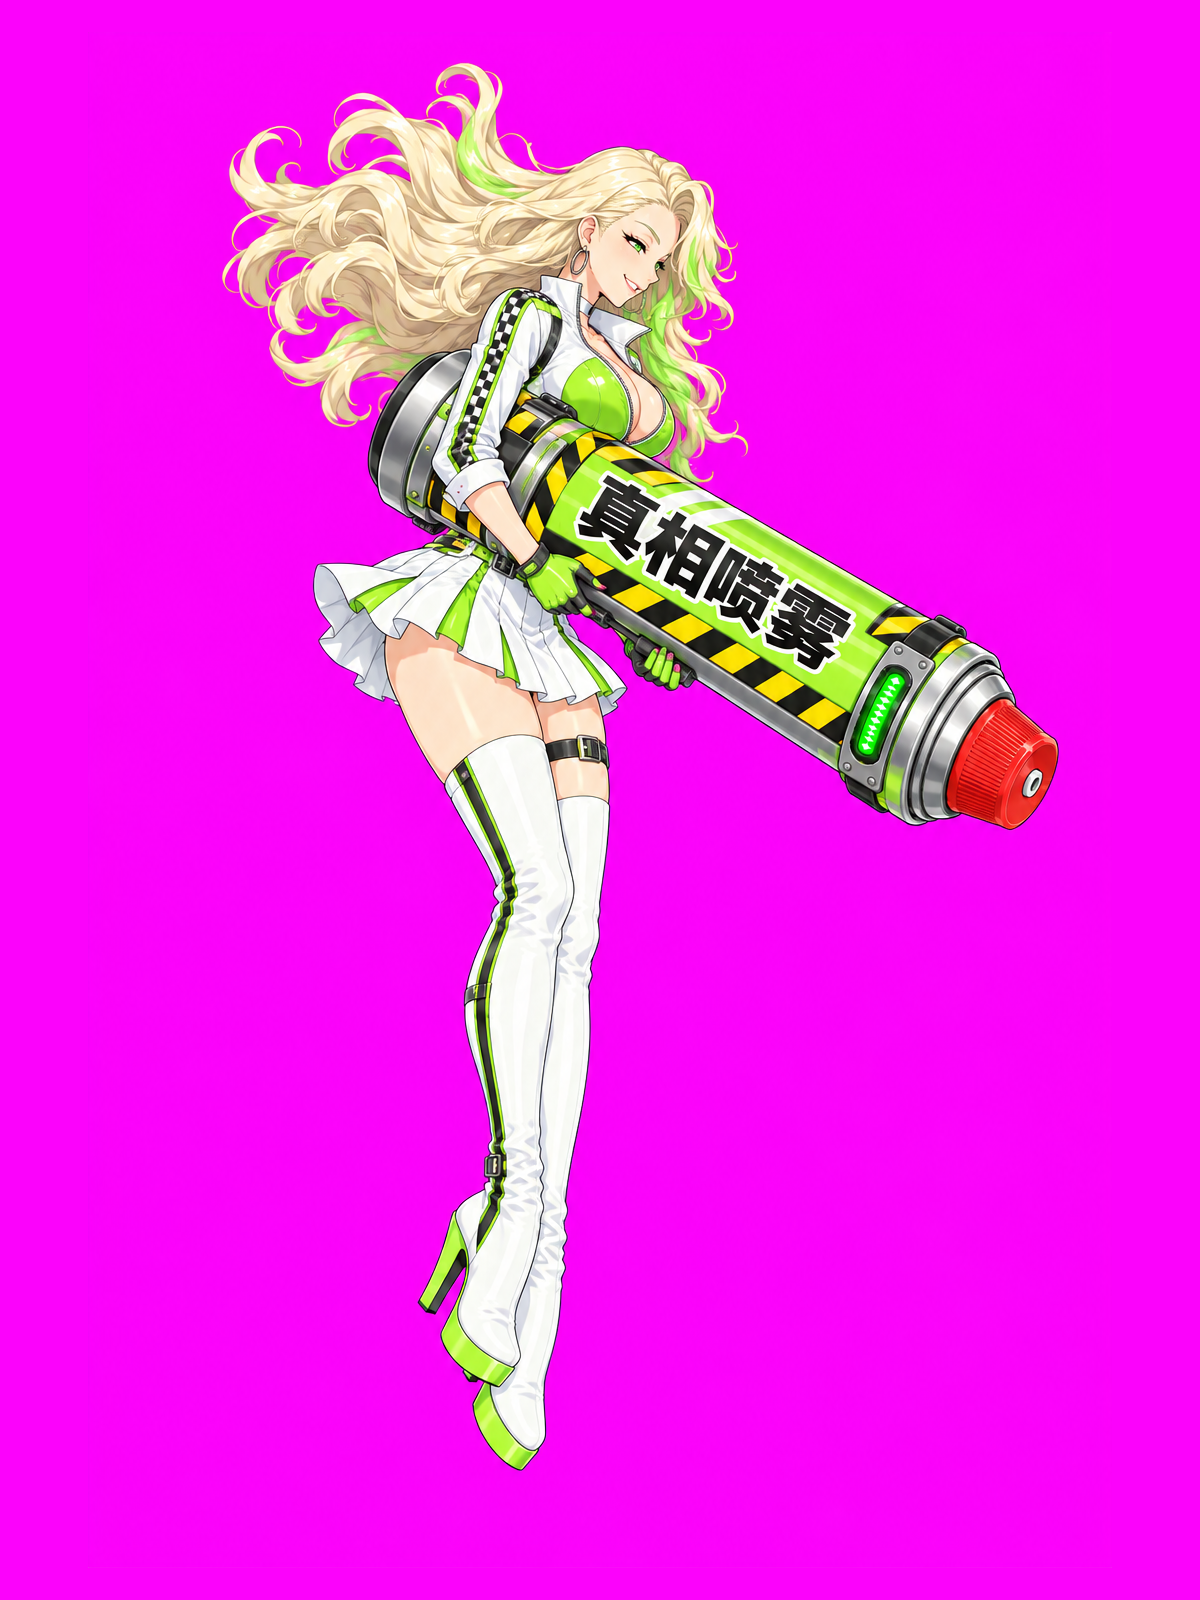
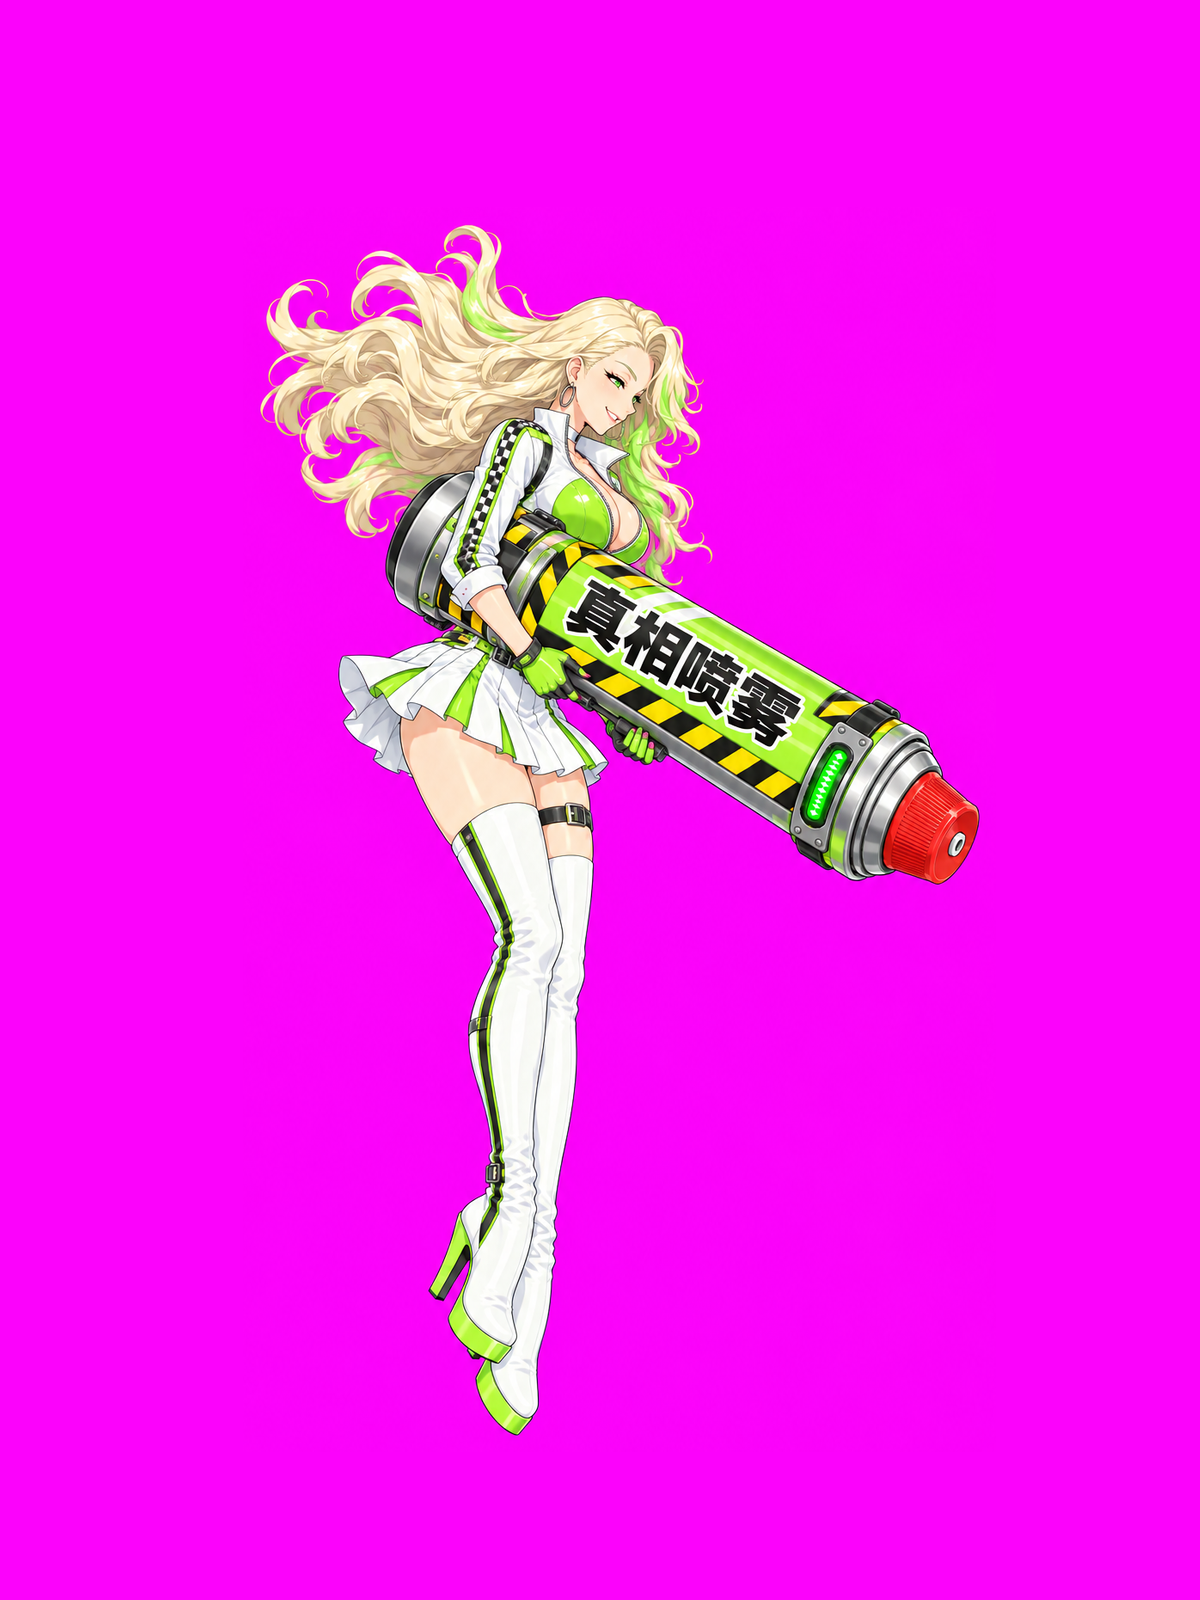
docs: 真相女神循环视频第二版提示词（A主循环+A2眨眼彩蛋，参考图头顶留边）

Changed region(s): [[0.185, 0.0312, 0.8942, 0.9375]]

diff --git a/chashouji/video/truth_loop/真相女神_循环视频_提示词.md b/chashouji/video/truth_loop/真相女神_循环视频_提示词.md
@@ -1,62 +1,71 @@
-# 真相女神 · 在场循环视频（即梦 Seedance）
+# 真相女神 · 在场循环视频（即梦 Seedance）· 第二版
 
-用途：档 4 出场视频放完后，她在场的 15 秒里不再是一张立绘整体晃，而是一段**原地循环播放的透明视频**（头发、裙摆、夹克、腿、表情都在动）。
-喷雾、光环、身后的放射金光、底下的真相云海仍由游戏画，视频里只要她本人。
+用途：档 4 出场视频放完后，她在场的 15 秒里不再是一张立绘整体晃，而是一段**原地循环播放的透明视频**。
+喷雾、喷口焰、星星气泡、光环、身后金光、底下的真相云海仍由游戏画，视频里只要她本人。
+
+第二版改了什么（2026-10-04）：
+- 参考图缩到 0.86 倍重新居中，头顶留 220 像素（第一版只有 62 像素，头发一飘就出画）。
+- B 版「挑逗表演」不用了，改成 **A 主循环 + A2 眨眼彩蛋**：两版首尾帧相同，游戏按 A2 → A → A 放（15 秒正好三圈，只眨一次眼）。
+- 后坐力改成**均匀的每秒一下**：我会量出视频里每一震的时刻，让游戏的喷雾一阵一阵地跟着它喷（视频一震、雾一冲）。
 
 ## 一、生成参数（两版通用）
 
-| 项 | 设置 | 为什么 |
-|---|---|---|
-| 模式 | **首尾帧** | 首帧、尾帧都传同一张图，视频才能首尾接成无缝循环 |
-| 首帧 | `真相女神_循环_首尾帧.png` | 游戏立绘的高清原图（v14/truth/src2.png）补成 3:4 品红底。循环每一圈的起止姿势 = 游戏立绘，能直接替换 |
-| 尾帧 | **同一张** `真相女神_循环_首尾帧.png` | 同上 |
-| 比例 | **3:4** | 跟参考图一致，不裁人 |
-| 分辨率 | 1080P（没有就 720P） | |
-| 时长 | **5 秒** | 循环一圈 5 秒，在场 15 秒正好三圈，不会一眼看出重复 |
-| 音频 / 音效 | **关** | 循环要放三圈，带声音会一遍遍重复 |
-| 运镜 | **固定机位**，不勾"随机运镜" | 镜头一动，人在游戏里就整个漂移 |
-| 数量 | 每版一次 4 条，挑一条 | |
+| 项 | 设置 |
+|---|---|
+| 模式 | **首尾帧**，首帧、尾帧都传同一张 `真相女神_循环_首尾帧.png` |
+| 比例 / 分辨率 / 时长 | 3:4 / 1080P（没有就 720P）/ **5 秒** |
+| 音频 | 关 |
+| 运镜 | 固定机位，不勾"随机运镜" |
+| 数量 | 每版 4 条，挑一条 |
 
-## 二、版本 A：战斗待机（一阵一阵地喷）
+## 二、版本 A：主循环（连射后坐力）
 
-> 日系赛璐璐动画风格，二次元高质量作画，粗描边，色彩鲜艳饱和。与首帧为同一角色、同一服装、同一道具，人物外观全程严格保持一致。纯品红色背景（#FF00FF），背景全程纯色不变，没有任何场景、光效、粒子、阴影。
-> 固定机位，镜头全程完全静止，不推不拉不摇。
-> 她悬浮在空中，双手稳稳抱住腰侧的巨型「真相喷雾」罐，罐口始终朝右下方瞄准，罐子的位置和角度基本不变。
-> 动作：整个人在原地轻轻上下浮动；罐子每隔不到一秒向后轻微一震（像在一阵阵喷射的后坐力），她的肩膀和上身随之微微一顿；罐身侧面的绿色电量灯一格一格流动闪烁。
-> 后坐力带起的气流把她的金色长发和青柠绿挑染持续向左后方吹起、大幅飘动；白色百褶短裙的裙摆和夹克下摆随风翻飞；两条腿悬在空中自然地轻轻前后摆动。
-> 表情：自信的坏笑，目光锁定右下方的目标，中途眨一次眼。
-> 罐口不喷出任何雾气、烟或光束。
-> 5 秒结束时，她的姿势、头发、裙摆完全回到首帧的样子，首尾无缝衔接，可以循环播放。
-> 全程只有她一个人，画面中不出现任何文字、字幕或水印（罐身上的"真相喷雾"除外），不变脸，不变装，人物不离开画面。
+```
+日系赛璐璐动画风格，二次元高质量作画，粗描边，色彩鲜艳饱和。与首帧为同一角色、同一服装、同一道具，人物外观全程严格保持一致。纯品红色背景（#FF00FF），背景全程纯色不变，没有任何场景、光效、粒子、阴影。
+固定机位，镜头全程完全静止，不推不拉不摇，人物大小和位置不变。
+她悬浮在空中，双手稳稳抱住腰侧的巨型「真相喷雾」罐，罐口始终朝右下方瞄准，罐子的位置和角度保持不变。
+动作：罐子节奏均匀地每秒向后一震，一共震五下，像大口径喷枪一下一下地连射产生的后坐力；每震一下，她的肩膀和上身随之往后上方一顿、再稳回来。两次震动之间，整个人在原地轻轻上下浮动。罐身侧面的绿色电量灯随着每一下震动闪亮一次。
+后坐力带起的强风把她的金色长发和青柠绿挑染持续向左后方吹起、大幅飘动；白色百褶短裙的裙摆和夹克下摆随风翻飞；两条腿悬在空中，随着每一下震动微微往后一甩。
+表情：自信的坏笑，眼睛始终盯着右下方的目标。
+罐口不喷出任何雾气、烟或光束。
+5 秒结束时，她的姿势、头发、裙摆完全回到首帧的样子，首尾无缝衔接，可以循环播放。
+全程只有她一个人，画面中不出现任何文字、字幕或水印（罐身上的"真相喷雾"除外），不变脸，不变装，人物不离开画面。
+```
 
-## 三、版本 B：挑逗表演（更有人味）
+## 三、版本 A2：眨眼彩蛋（只放一圈）
 
-> 日系赛璐璐动画风格，二次元高质量作画，粗描边，色彩鲜艳饱和。与首帧为同一角色、同一服装、同一道具，人物外观全程严格保持一致。纯品红色背景（#FF00FF），背景全程纯色不变，没有任何场景、光效、粒子、阴影。
-> 固定机位，镜头全程完全静止，不推不拉不摇。
-> 她悬浮在空中，双手抱住腰侧的巨型「真相喷雾」罐，罐口始终朝右下方，罐子的位置和角度基本不变。
-> 动作：她先慢慢转过头看向镜头，歪一下头，冲镜头俏皮地眨一下右眼、嘴角勾起得意的笑；然后甩一下头，长发在空中划出一道大弧线；两条修长的腿在空中交替轻轻踢动、像在水里悠闲地踩水，一只脚尖俏皮地勾起又放下；最后转回头，目光重新锁定右下方。
-> 金色长发和青柠绿挑染全程在风中持续飘动，白色百褶短裙和夹克下摆轻轻翻飞，罐身侧面的绿色电量灯流动闪烁。
-> 罐口不喷出任何雾气、烟或光束。
-> 5 秒结束时，她的姿势、头的朝向、头发、裙摆完全回到首帧的样子，首尾无缝衔接，可以循环播放。
-> 全程只有她一个人，画面中不出现任何文字、字幕或水印（罐身上的"真相喷雾"除外），不变脸，不变装，人物不离开画面。
+```
+日系赛璐璐动画风格，二次元高质量作画，粗描边，色彩鲜艳饱和。与首帧为同一角色、同一服装、同一道具，人物外观全程严格保持一致。纯品红色背景（#FF00FF），背景全程纯色不变，没有任何场景、光效、粒子、阴影。
+固定机位，镜头全程完全静止，不推不拉不摇，人物大小和位置不变。
+她悬浮在空中，双手稳稳抱住腰侧的巨型「真相喷雾」罐，罐口始终朝右下方瞄准，罐子的位置和角度保持不变。
+动作：罐子节奏均匀地每秒向后一震，一共震五下，像大口径喷枪一下一下地连射产生的后坐力；每震一下，她的肩膀和上身随之往后上方一顿、再稳回来。罐身侧面的绿色电量灯随着每一下震动闪亮一次。
+表情和头：第 1 秒眼睛盯着右下方的目标；第 2 秒她一边继续射击，一边把头转过来看向镜头，冲镜头俏皮地眨一下右眼，嘴角勾起得意的坏笑，像在说"看好了"；第 4 秒把头转回去，目光重新锁定右下方，直到结束。转头时只转头和脖子，手和罐子不动。
+后坐力带起的强风把她的金色长发和青柠绿挑染持续向左后方吹起、大幅飘动；白色百褶短裙的裙摆和夹克下摆随风翻飞；两条腿悬在空中，随着每一下震动微微往后一甩。
+罐口不喷出任何雾气、烟或光束。
+5 秒结束时，她的姿势、头的朝向、头发、裙摆完全回到首帧的样子，首尾无缝衔接，可以循环播放。
+全程只有她一个人，画面中不出现任何文字、字幕或水印（罐身上的"真相喷雾"除外），不变脸，不变装，人物不离开画面。
+```
 
-## 四、反向提示词（两版通用，界面有这一栏就填）
+## 四、反向提示词（两版通用）
 
-> 写实真人，3D 渲染，多余人物，多手指，手部畸形，脸部崩坏，换装，服装颜色变化，罐子消失，罐子换手，罐子大幅转动，罐子上的文字乱码，喷雾，烟雾，光效，粒子，背景场景，背景颜色变化，阴影，字幕，水印，logo，镜头移动，镜头缩放，画面抖动，人物出画，低清晰度，模糊
+```
+写实真人，3D 渲染，多余人物，多手指，手部畸形，脸部崩坏，换装，服装颜色变化，罐子消失，罐子换手，罐子转动，罐子上的文字乱码，喷雾，烟雾，水雾，气体，光效，粒子，背景场景，背景颜色变化，阴影，字幕，水印，logo，镜头移动，镜头缩放，画面抖动，人物出画，低清晰度，模糊
+```
 
-## 五、为什么这样写
+## 五、为什么不把喷雾做进视频
 
-- **罐子不动、罐口不喷**：游戏一直从罐口那个点往男主脸上喷雾。视频里罐子要是转了、自己也喷，游戏的雾就从半空冒出来，或者喷两份。
-- **纯品红底、不要光效**：她身后的放射金光、头顶光环、底下的云海都是游戏画的。视频里只要她一个人，抠像最干净。不用绿幕，绿幕会把她的青柠绿衣服一起抠穿。
-- **首尾同一张图、固定机位**：循环每一圈的头尾就是游戏立绘的姿势。出场视频放完后能直接无缝切进循环，人不跳、不漂。
-- **A 和 B 的区别**：A 读起来是"在干活"，后坐力、气流、头发裙摆一直在动，最贴战斗；B 读起来是"在放电"，看镜头、眨眼、甩头发、踢腿，最有人味。两版都出来以后，也可以 A、B 交替播（两版首尾帧相同，能直接接上）。
-- **审核**：即梦会拦身材、服装类的词。这里只写了动作，没写身材；被拒的话先删"修长的"。
+- **雾要瞄人**：男主在长卷上被推来推去，脸的位置一直在变；游戏里她整个人前后倾着瞄（二分反解），雾锥始终打在他脸上。烤进视频的雾方向是死的，人一走就喷空。
+- **雾是玩法的一部分**：雾里夹带聊天气泡和星星（"真相"漏出来的聊天记录），每 0.25 秒结算一次命中，命中才有男主的受击反应；这些视频都做不了。
+- **抠不干净**：半透明的雾叠在品红底上，抠完雾里会残留一层紫色；用 AI 抠人又会把雾整团当背景抠掉。
+- **接缝**：游戏的雾 15 秒连续喷，跨圈、跨出场视频都不断；视频里的雾每 5 秒循环一次，会看到它在接缝处"跳"。
+- **视频负责的是"喷的那一下有多猛"**：后坐力、甩头发、裙摆被风掀起。我把视频里每一震的时刻量出来，游戏的雾按这个节奏一阵一阵冲出去，喷口焰同一帧炸开，看起来就是她自己喷的。
 
 ## 六、挑片时看什么
 
-- 最后一帧和第一帧几乎一样（头发、裙摆的位置也要回去）；
-- 镜头全程不动，背景全程纯品红；
-- 罐子没有明显转动，罐口没有冒东西；
-- 脸、发色、衣服、罐子上的字没变。
+- 最后一帧和第一帧几乎一样，头发、裙摆、头的朝向都回到原位；
+- 镜头不动，人不变大变小，背景全程纯品红；
+- 罐子不转、不挪，罐口不冒东西；
+- 震动节奏大致均匀（A2 的转头那两秒也要继续震）；
+- 脸、发色、衣服、罐子上的字都没变。
 
 交来 mp4 就行。抠像、对齐、做成透明循环、接进游戏，由我来做。
